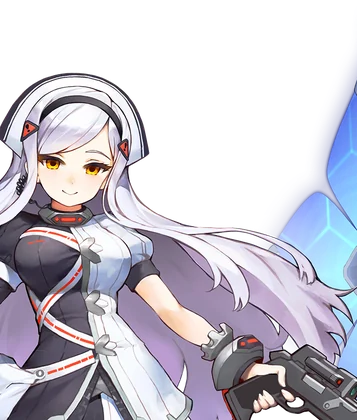
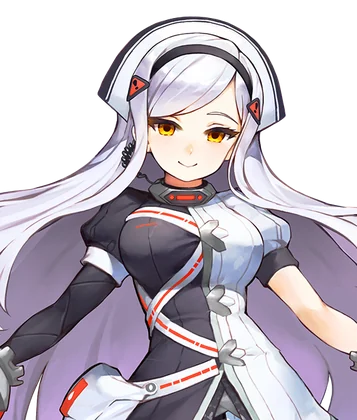
Inventory doll art: Constantia background cut out, Black Lilith centred

diff --git a/tools/build_fullbody.py b/tools/build_fullbody.py
@@ -10,7 +10,7 @@ M = {"brownie": "FullbodyIMG_BR_Brownie_N", "leprechaun": "FullbodyIMG_BR_Leprec
      "kheshig": "FullbodyIMG_BR_Kheshig_N", "gnome": "FullbodyIMG_BR_Gnome_N",
      "blacklilith": "FullbodyIMG_3P_BlackLilith_N"}
 # hand-picked crops where the auto head finder is fooled (weapons / parts above the head): head centre x, top y, height (fractions of the figure box)
-CROP = {"nymph": (0.62, 0.0, 0.36), "kheshig": (0.2, 0.0, 0.36)}
+CROP = {"nymph": (0.62, 0.0, 0.36), "kheshig": (0.2, 0.0, 0.36), "blacklilith": (0.5, 0.06, 0.34)}
 
 
 def head_x(a, y0, y1):
